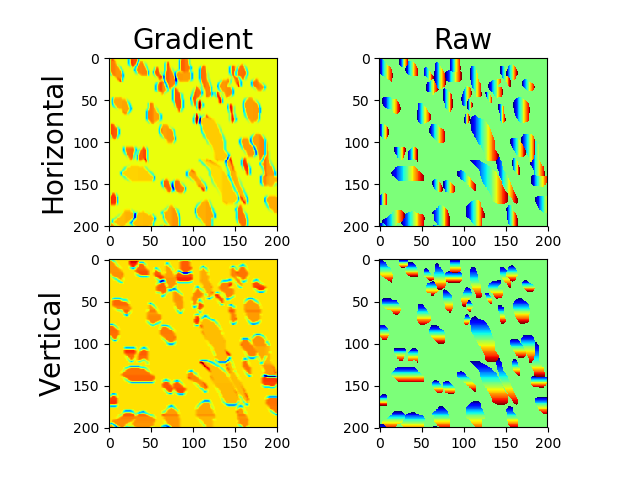
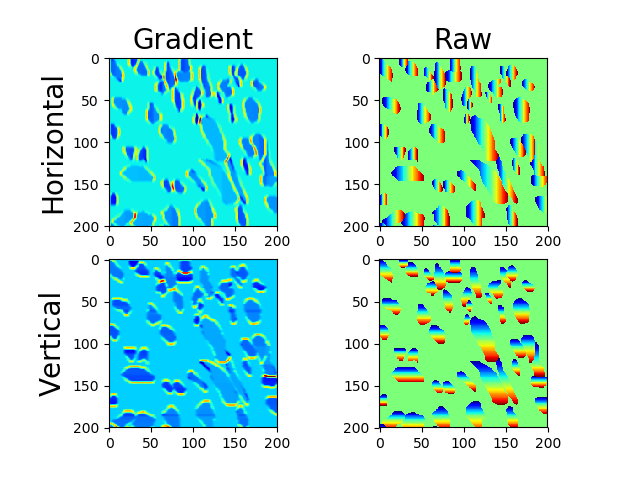
modify README

Changed region(s): [[0.1562, 0.5312, 0.4375, 0.9062], [0.1562, 0.125, 0.4375, 0.4688]]

diff --git a/train.py b/train.py
@@ -24,12 +24,12 @@ import segmentation_models_pytorch.utils.losses as smploss
 import torch.nn.functional as F
 import torch.nn as nn
 
-device = torch.device('cuda:1' if torch.cuda.is_available() else 'cpu')
+device = torch.device('cuda:0' if torch.cuda.is_available() else 'cpu')
 
 def parseArgs():
     parse = argparse.ArgumentParser()
-    parse.add_argument('--epoch', type=int, default=100)
-    parse.add_argument('--batchsizeTrain', type=int, default=1)
+    parse.add_argument('--epoch', type=int, default=300)
+    parse.add_argument('--batchsizeTrain', type=int, default=4)
     parse.add_argument('--batchsizeTest', type=int, default=16)
     parse.add_argument('--rootPth', type=str, default=Path(__file__).parent.parent / 'data')
     parse.add_argument('--logPth', type=str, default='../log')
@@ -64,11 +64,11 @@ def main(args, logger):
                              drop_last=False,
                              num_workers=args.numWorkers)
     net = model().to(device)
-    # net = nn.DataParallel(net)
+    net = nn.DataParallel(net)
     criterionMSE = nn.MSELoss().to(device)
-    criterionDice = smploss.DiceLoss(eps=sys.float_info.min).to(device)
+    criterionDice = smploss.DiceLoss(eps=1e-7).to(device)
     criterionCE = nn.CrossEntropyLoss().to(device)
-    optimizer = Ranger(net.parameters(), lr=1e-2)
+    optimizer = Ranger(net.parameters(), lr=1.e-1)
     runningLoss, MSEloss, CEloss, Diceloss = [], [], [], []
     iter = 0
     for epoch in range(args.epoch):
@@ -93,11 +93,11 @@ def main(args, logger):
             # axes[1, 0].set_ylabel('Vertical', fontsize=20)
             # plt.show()
             loss1 = criterionMSE(branchMSE, horizontalVertical) + \
-                   1. * criterionMSE(predictionGradient, gtGradient)
+                   2. * criterionMSE(predictionGradient, gtGradient)
             branchSeg = nn.Softmax2d()(branchSeg)
             loss2 = criterionDice(branchSeg[:, 1, ...], mask)
             loss3 = criterionCE(branchSeg, mask.long())
-            loss = loss1 + 1 * loss2 + loss3
+            loss = loss1 + loss2 + loss3
             # loss = criterionMSE(branchMSE, horizontalVertical) + \
             #        2. * criterionMSE(predictionGradient, gtGradient) + \
             #        criterionDice(branchSeg[:, 1, ...], mask) + \

diff --git a/dataset.py b/dataset.py
@@ -19,17 +19,17 @@ import matplotlib.pyplot as plt
 
 def getGradient(input, show=False):
     def getSobelKernel(size):
-        hRange = np.arange(-size//2 + 1, size//2 + 1, dtype=np.float32)
-        vRange = np.arange(-size // 2 + 1, size // 2 + 1, dtype=np.float32)
-        h, v = np.meshgrid(hRange, vRange)
+        hvRange = np.arange(-size // 2 + 1, size // 2 + 1, dtype=np.float32)
+        h, v = np.meshgrid(hvRange, hvRange)
         kernelH = h / (h * h + v * v + 1.0e-15)
         kernelV = v / (h * h + v * v + 1.0e-15)
 
         return kernelH, kernelV
 
-    mh, mv = getSobelKernel(5)
-    mh = np.reshape(mh, [1, 1, 5, 5])
-    mv = np.reshape(mv, [1, 1, 5, 5])
+    kernelSize = 5
+    mh, mv = getSobelKernel(kernelSize)
+    mh = np.reshape(mh, [1, 1, kernelSize, kernelSize])
+    mv = np.reshape(mv, [1, 1, kernelSize, kernelSize])
     if type(input) is torch.Tensor:
         input = input.cpu().detach().numpy()
         h, v = input[:, 1, ...][:, None, ...], input[:, 0, ...][:, None, ...]
@@ -39,11 +39,12 @@ def getGradient(input, show=False):
     dh = tf.conv2d(torch.tensor(h, dtype=torch.double), torch.tensor(mh, dtype=torch.double), stride=1, padding=2)
     dv = tf.conv2d(torch.tensor(v, dtype=torch.double), torch.tensor(mv, dtype=torch.double), stride=1, padding=2)
     if show:
+        size = 200
         fig, axes = plt.subplots(2, 2)
-        axes[0, 0].imshow(np.squeeze(np.array(dh))[0:200, 0:200], cmap='jet')
-        axes[0, 1].imshow(np.squeeze(np.array(h))[0:200, 0:200], cmap='jet')
-        axes[1, 0].imshow(np.squeeze(np.array(dv))[0:200, 0:200], cmap='jet')
-        axes[1, 1].imshow(np.squeeze(np.array(v))[0:200, 0:200], cmap='jet')
+        axes[0, 0].imshow(-np.squeeze(np.array(dh))[0:size, 0:size], cmap='jet')
+        axes[0, 1].imshow(np.squeeze(np.array(h))[0:size, 0:size], cmap='jet')
+        axes[1, 0].imshow(-np.squeeze(np.array(dv))[0:size, 0:size], cmap='jet')
+        axes[1, 1].imshow(np.squeeze(np.array(v))[0:size, 0:size], cmap='jet')
         axes[0, 0].set_title('Gradient', fontsize=20)
         axes[0, 0].set_ylabel('Horizontal', fontsize=20)
         axes[0, 1].set_title('Raw', fontsize=20)

diff --git a/postProcess.py b/postProcess.py
@@ -1,0 +1,14 @@
+# coding=utf-8
+"""
+@File   : postProcess.py
+@Time   : 2020/01/09
+@Author : Zengrui Zhao
+"""
+import numpy as np
+
+def proc(pred):
+    pass
+
+if __name__ == '__main__':
+    pass
+
